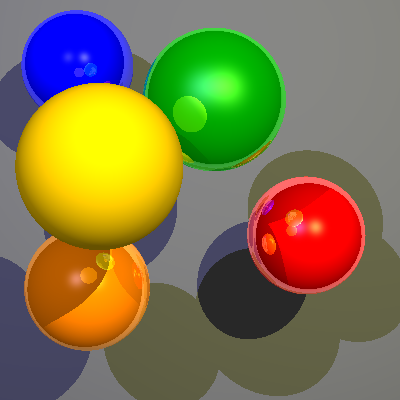
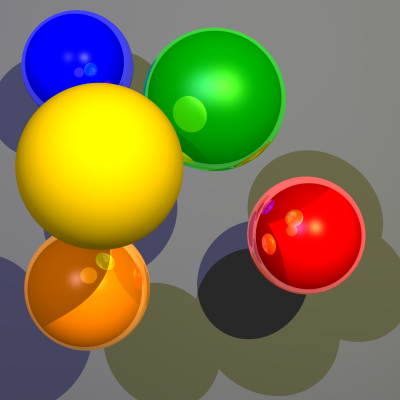
supersampling

diff --git a/Code/scene.cpp b/Code/scene.cpp
@@ -8,8 +8,6 @@
 #include <cmath>
 #include <limits>
 
-#define MAX_REFLECT 5
-
 using namespace std;
 
 Color Scene::trace(Ray const &ray, const int depth)
@@ -50,7 +48,7 @@ Color Scene::trace(Ray const &ray, const int depth)
 			
 			// check if light source hits other object first
 			int in_shadow = 0; // assume object is not in shadow
-			for (idx = 0; idx < objects.size(); ++idx) {
+			if (shadows) for (idx = 0; idx < objects.size(); ++idx) {
 				if (idx != obj_idx) {
 					Ray lightray(lightposition, lightdir);
 					Hit this_hit(objects[obj_idx]->intersect(lightray));
@@ -76,7 +74,7 @@ Color Scene::trace(Ray const &ray, const int depth)
 		}   
 		
 		// continuation of view ray (specular reflection) with recursive call
-		if (depth < MAX_REFLECT) {
+		if (depth < num_reflections) {
 			Vector reflect = (2.0*N.dot(V)*N - V).normalized();
 			Ray from(hit+0.05*reflect, reflect);
 			Color light_reflection = material.ks*trace (from, depth+1);
@@ -93,11 +91,25 @@ void Scene::render(Image &img)
     {
         for (unsigned x = 0; x < w; ++x)
         {
-            Point pixel(x + 0.5, h - 1 - y + 0.5, 0);
-            Ray ray(eye, (pixel - eye).normalized());
-            Color col = trace(ray, 0);
-            col.clamp();
-            img(x, y) = col;
+						int num_pixels = supersampling*supersampling;
+						float start = 0.5/supersampling;
+						float delta = 1.0/supersampling;
+						Color *colors = (Color*)malloc (num_pixels*sizeof(Color));
+						for (int i = 0; i < supersampling; i++) {
+								for (int j = 0; j < supersampling; j++) {
+										Point pixel(x + (start + i*delta), h - 1 - y + (start + j*delta), 0);
+										Ray ray(eye, (pixel - eye).normalized());
+										Color col = trace(ray, 0);
+										col.clamp();
+										colors[i*supersampling + j] = col;
+								}
+						}
+						Color col;
+						float weight = 1.0/num_pixels;
+						for (int i = 0; i < num_pixels; i++) {
+								col += weight*colors[i];
+						}
+						img(x, y) = col;
         }
     }
 }
@@ -117,6 +129,12 @@ void Scene::addLight(Light const &light)
 void Scene::setEye(Triple const &position)
 {
     eye = position;
+}
+
+void Scene::configure(bool show_shadows, int num_ref, int supsam) {
+	shadows = show_shadows;
+	num_reflections = num_ref;
+	supersampling = supsam;
 }
 
 unsigned Scene::getNumObject()

diff --git a/Code/scene.h b/Code/scene.h
@@ -16,7 +16,9 @@ class Scene
     std::vector<ObjectPtr> objects;
     std::vector<LightPtr> lights;   // no ptr needed, but kept for consistency
     Point eye;
-    int hit; // if already 
+    bool shadows;
+    int num_reflections;
+    int supersampling;
 
     public:
 
@@ -25,12 +27,13 @@ class Scene
 
         // render the scene to the given image
         void render(Image &img);
-
+				
 
         void addObject(ObjectPtr obj);
         void addLight(Light const &light);
         void setEye(Triple const &position);
-
+				void configure(bool show_shadows, int num_ref, int supsam);
+				
         unsigned getNumObject();
         unsigned getNumLights();
 };

diff --git a/Code/raytracer.cpp b/Code/raytracer.cpp
@@ -112,7 +112,10 @@ try
     Point eye(jsonscene["Eye"]);
     scene.setEye(eye);
 
-    // TODO: add your other configuration settings here
+    bool shadows = jsonscene["Shadows"];
+    int num_reflections = jsonscene["Reflections"];
+    int supersampling = jsonscene["Samples"];
+    scene.configure (shadows, num_reflections, supersampling);
 
     for (auto const &lightNode : jsonscene["Lights"])
         scene.addLight(parseLightNode(lightNode));
